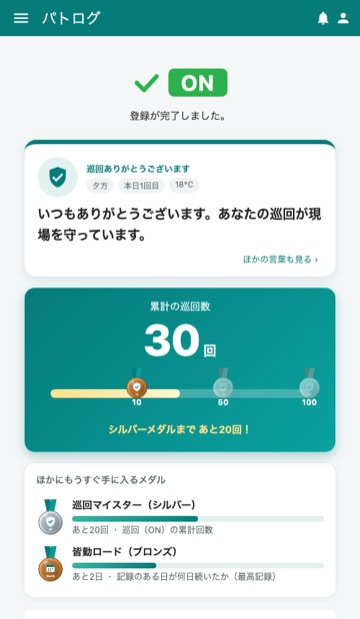
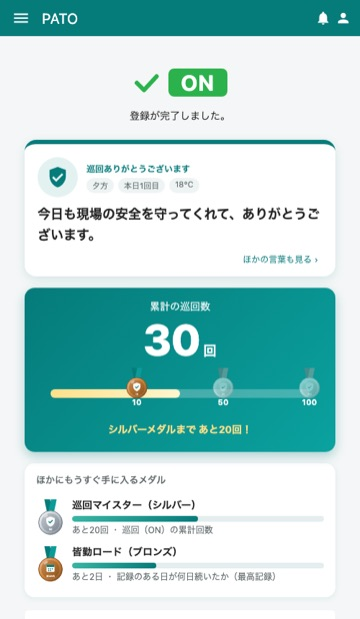
画面上の名称を変更（SEATouch→SEAT、パトログ→PATO）

Changed region(s): [[0.0917, 0.3069, 0.9167, 0.399], [0.1222, 0.0, 0.275, 0.0614]]

diff --git a/index.html b/index.html
@@ -5,7 +5,7 @@
 <meta name="viewport" content="width=device-width, initial-scale=1, viewport-fit=cover">
 <meta name="theme-color" content="#1b2440">
 <title>エンタメプロト一覧</title>
-<meta name="description" content="SEATouch・パトログに楽しい要素を足したエンタメ試作の一覧">
+<meta name="description" content="SEAT・PATOに楽しい要素を足したエンタメ試作の一覧">
 <style>
   :root {
     --bg: #f5f6fa;
@@ -124,12 +124,12 @@
 <script>
   const BASE = 'https://mobility-entertainment-proto.github.io/';
   const SERIES = [
-    { id: 'work',   name: 'SEATouch',  sub: 'work-entertainment',   color: 'var(--work)',   hex: '#1e4fa8', desc: 'オフィスの在席・退席登録に、楽しさをプラス', detail: '在席登録・退席登録のたびに、おみくじやコレクション、天気などが出ます。' },
-    { id: 'patrol', name: 'パトログ',  sub: 'patrol-entertainment', color: 'var(--patrol)', hex: '#057b7a', desc: '巡回記録に、ねぎらいとやりがいをプラス', detail: '巡回場所の IC カードにタッチして記録するたびに、ねぎらいの言葉やメダル、旅や冒険が進みます。' },
+    { id: 'work',   name: 'SEAT',  sub: 'work-entertainment',   color: 'var(--work)',   hex: '#1e4fa8', desc: 'オフィスの在席・退席登録に、楽しさをプラス', detail: '在席登録・退席登録のたびに、おみくじやコレクション、天気などが出ます。' },
+    { id: 'patrol', name: 'PATO',  sub: 'patrol-entertainment', color: 'var(--patrol)', hex: '#057b7a', desc: '巡回記録に、ねぎらいとやりがいをプラス', detail: '巡回場所の IC カードにタッチして記録するたびに、ねぎらいの言葉やメダル、旅や冒険が進みます。' },
   ];
   // how = 試し方
   const PROTOS = [
-    { s: 'work', n: 1,  title: '在席退席登録（ベース）', desc: 'SEATouch の画面を再現した土台。在席登録を押すと完了画面に移ります。', how: '在席登録を押す', tags: ['ベース'] },
+    { s: 'work', n: 1,  title: '在席退席登録（ベース）', desc: 'SEAT の画面を再現した土台。在席登録を押すと完了画面に移ります。', how: '在席登録を押す', tags: ['ベース'] },
     { s: 'work', n: 2,  title: '今日のおみくじ', desc: '在席登録すると、今日の運勢と仕事運・会議運・ランチ運が出ます。', how: '在席登録を押す', tags: ['おみくじ', 'ランダム'] },
     { s: 'work', n: 3,  title: '社員食堂ガラポン', desc: 'ガラポンを回して、社員食堂の割引券（QRコード付き）が当たります。1等は500円引き。', how: '在席登録 → ガラポンを回す', tags: ['抽選', 'QRコード', '紙吹雪'] },
     { s: 'work', n: 4,  title: 'アーティストカード', desc: 'カードパックを開けると、6組のアーティストカードが1枚当たります。未入手のカードはぼかし表示。', how: '在席登録 → パックをタップ → コレクション', tags: ['ガチャ', 'コレクション', 'キラカード'] },
